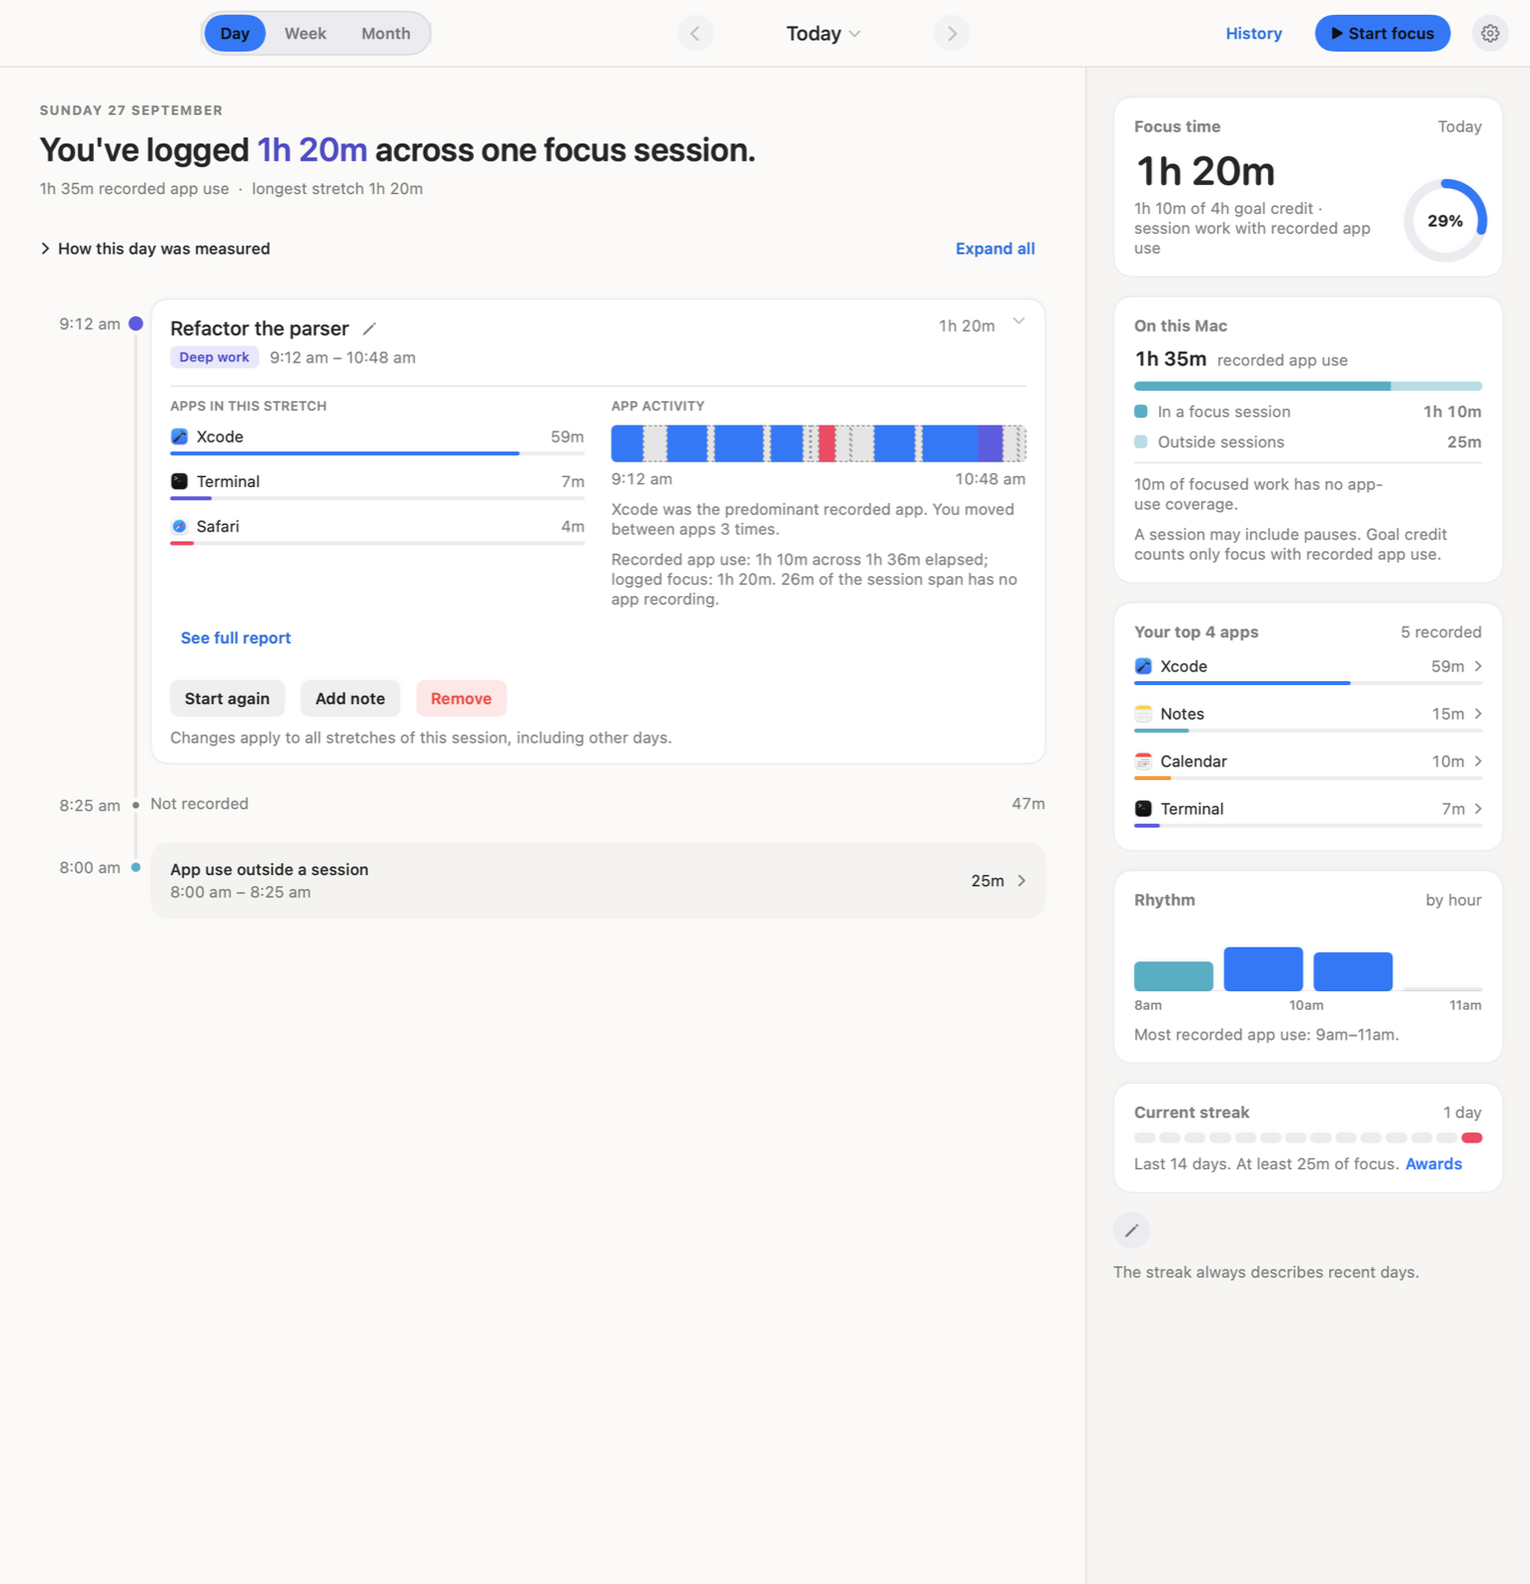
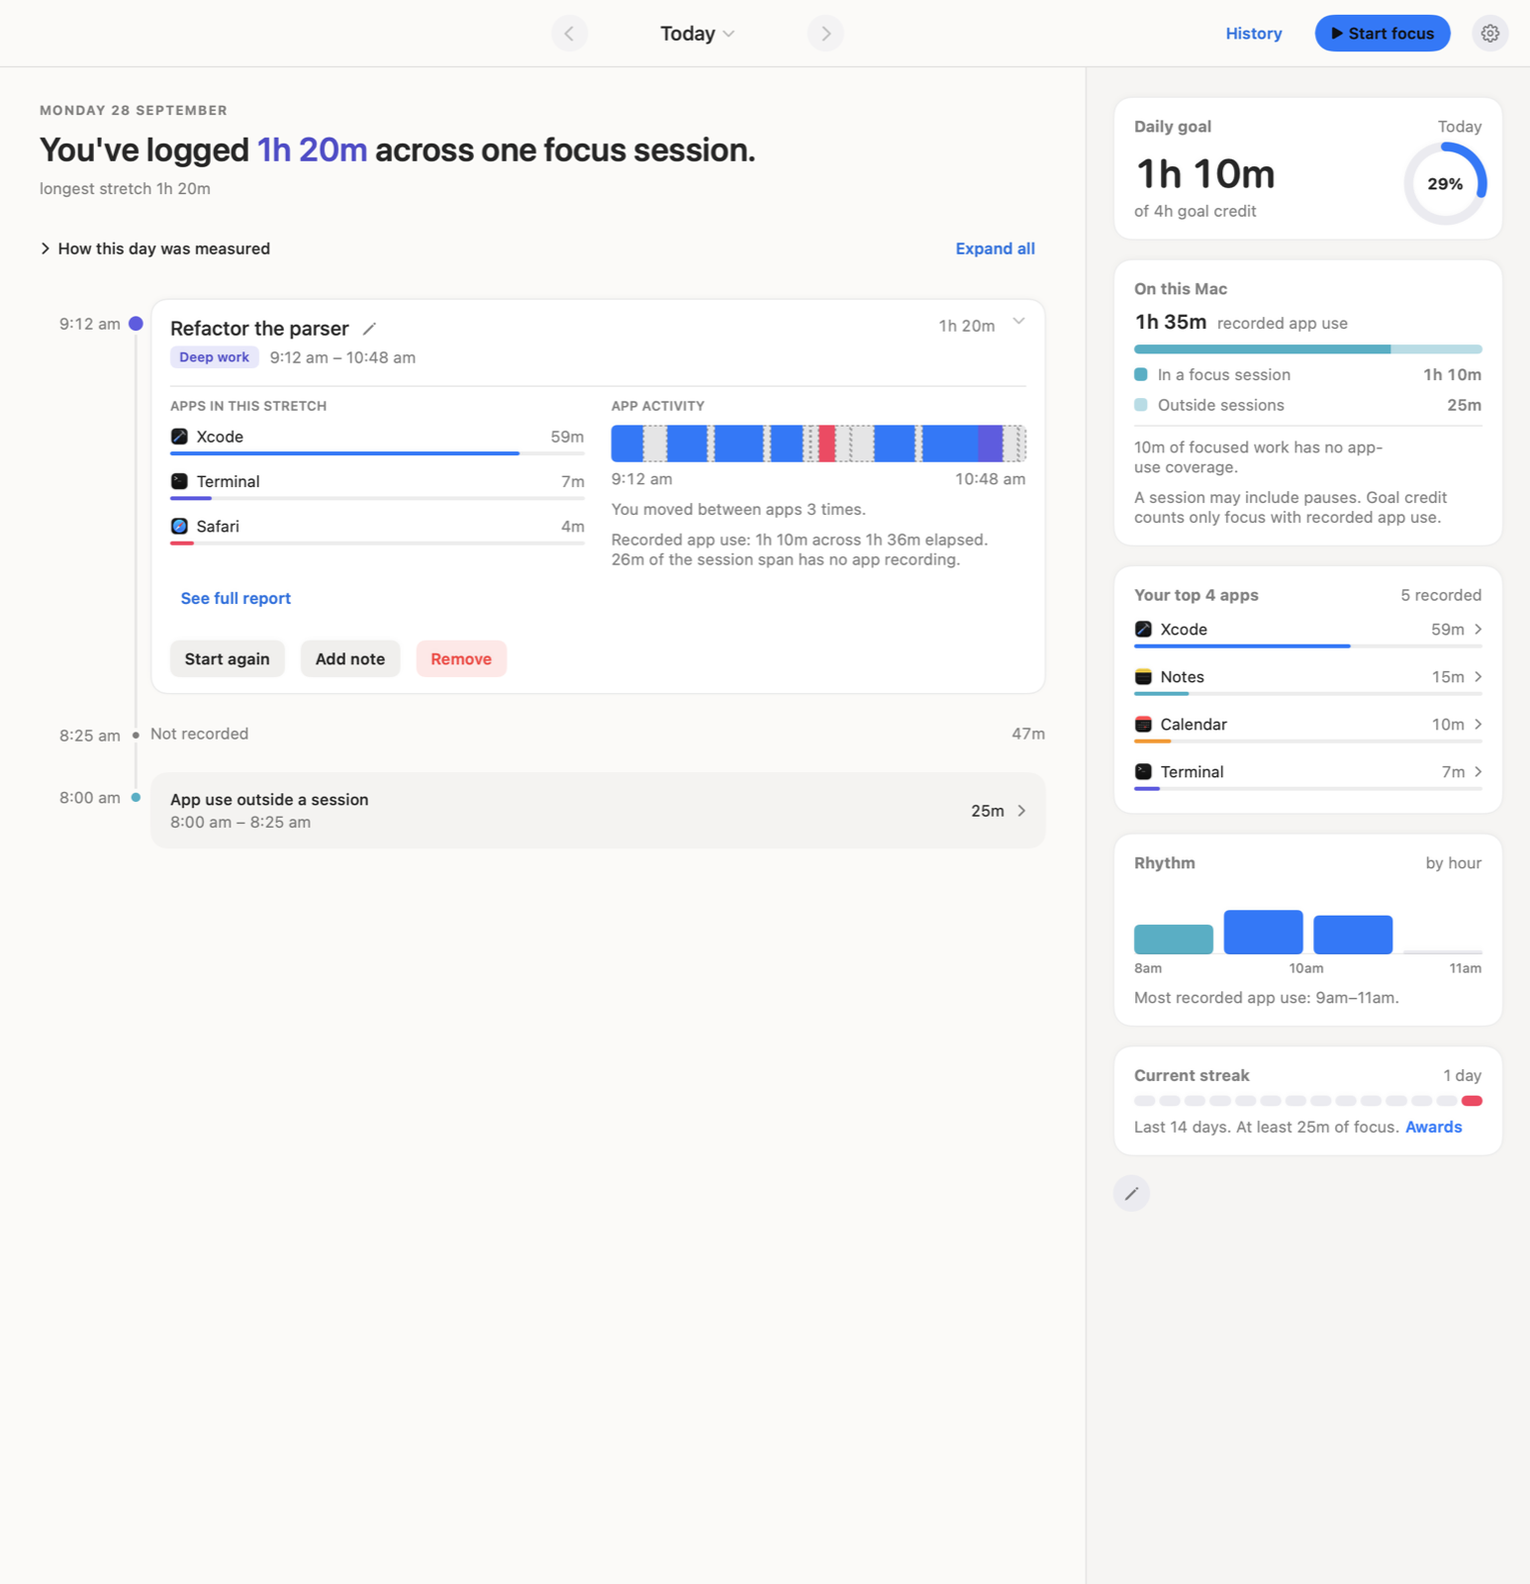
The tour, docs and screenshots describe the day and History
The tour's Looking back chapter now explains History's ranges and picked
spans; its second card points at History's own arrows and dates, which it
had no anchor for. README, usage guide, DESIGN and PRODUCT drop Day, Week
and Month scopes, the Opens on setting and the separate Insights page, and
list ⌘1 story, ⌘2 History and ⌘F Find in History. The Week, Month and
Insights screenshots are replaced by History at 3 and 12 months, and the
Day screenshot is re-rendered without the scope pills; the old images are
kept outside the repository.

diff --git a/Sources/Core/FirstRun.swift b/Sources/Core/FirstRun.swift
@@ -391,23 +391,23 @@ enum FirstRunScript {
         ]),
 
         Chapter(id: .lookingBack, cards: [
-            Card(sentence: "The day here, the longer view in History.",
-                 body: "The story is always one day; its arrows step a day at a time and "
-                     + "the date between them opens a calendar. History is where you "
-                     + "find out what your weeks and months actually look like.",
+            Card(sentence: "The story is a day. History is the longer view.",
+                 body: "Pick how far back to look: 7 or 30 days by day, 3 months by "
+                     + "week, 12 months as a calendar for each month. Pick a bar or a "
+                     + "month to read it, down to a single day's story.",
                  anchor: .scopePills,
                  effect: .showHistory),
             Card(sentence: "History goes back to the day you installed the app.",
-                 body: "Every month as a calendar, every day a square, stronger the "
-                     + "more of your goal it reached. Pick a month to read it. There is "
-                     + "nothing from before the app was here, because nothing was "
-                     + "recorded.",
+                 body: "The arrows step back by the range you chose. The dates between "
+                     + "them open a calendar: click a first day and a last, and History "
+                     + "reads exactly that stretch. There is nothing from before the app "
+                     + "was here, because nothing was recorded.",
                  anchor: .periodNav,
                  effect: .showHistory),
             Card(sentence: "Find any session by name.",
-                 body: "The search finds sessions by what you called them, what you "
-                     + "noted, the app, the category or the date. ⌘F opens it from "
-                     + "anywhere in History.",
+                 body: "The search at the top of History finds sessions by what you "
+                     + "called them, what you noted, the app, the category or the date. "
+                     + "⌘F takes you there from anywhere in the window.",
                  anchor: .search,
                  effect: .showHistory)
         ]),

diff --git a/Sources/Surfaces/Main/StoryChromeBar.swift b/Sources/Surfaces/Main/StoryChromeBar.swift
@@ -139,6 +139,7 @@ struct StoryChromeBar: View {
                          controlLabel: "History range")
             Spacer(minLength: Tokens.Space.s)
             insightNavigation
+                .coachAnchor(.periodNav)
             Spacer(minLength: Tokens.Space.s)
             // No "History" label and no search button: the label named the
             // page being read beside its back button, and the search field

diff --git a/docs/usage.md b/docs/usage.md
@@ -5,17 +5,16 @@ the project is and how it is built, start with the [README](../README.md).
 
 ## Surfaces
 
-The main window has one persistent scope selector. Scopes retain the date you
-are inspecting; opening a historical story never substitutes today's data.
+The main window reads one day at a time; History reads longer stretches.
+Each question has one place, so the same figures are not shown twice. Opening
+a historical day never substitutes today's data.
 
 | Surface | Question it answers | Main content |
 |---|---|---|
-| Day | What happened on this calendar day? | Focus-led summary, chronological stretches, named rest, app use and honest recording gaps |
-| Week | How did the days compare? | Focus summary, exact tracked bars, focused work-type composition and selected-day preview |
-| Month | How was focus distributed? | Date-and-duration calendar, relative focus intensity, weekly totals and selected-day preview |
+| Story | What happened on this day? | Focus-led summary, chronological stretches, named rest, app use and honest recording gaps; goal, app use, rhythm and streak in the rail |
+| Calendar | Which day, or which span? | A date picker under the date label: a dot marks days with anything recorded; in History, click a first and last day to read that span |
 | Session controls | What should I do now? | Intent, work type, Start, Pause, Resume, Away, Stop and pending-away decisions |
-| History | Where is an older record? | Days grouped by month with a strip of each day's sessions; search, app and category filters; the picked day previews in the rail |
-| Insights | What patterns are supported? | Focus by day, week or month; a when-you-focus grid; category shares and goal rates; gated pace, quality and continuity statements |
+| History | How have my days, weeks and months gone? Where is that session? | Search first, with app and category filters; ranges of 7 or 30 days (by day), 3 months (by week) or 12 months (a calendar for each month); a when-you-focus grid, category shares and goal rates; gated pace, quality and continuity statements |
 | Awards | What milestones have I earned? | Achievements derived from recorded evidence, with their criteria |
 | Settings | How should the app behave? | Real persisted controls, privacy evidence and diagnostics |
 
@@ -23,23 +22,23 @@ are inspecting; opening a historical story never substitutes today's data.
 
 | Shortcut | Action |
 |---|---|
-| `Command-1`, `Command-2`, `Command-3` | Day, Week, Month |
-| `Command-4`, `Command-6` | History, Awards |
+| `Command-1`, `Command-2` | The day's story, History |
+| `Command-6` | Awards |
 | `Command-7` | Session controls |
 | `Command-,` | Settings |
-| `Command-F` | Find a session (in History) |
+| `Command-F` | Find in History, from anywhere in the window |
 | Escape | Dismiss a native sheet/app detail or cancel an inline rename |
 
 ## Reading the story
 
 Current work is at the top of the timeline; earlier work and rest continue
 downwards. Click an entry's full header to expand it. Inspect an app from the
-rail to see its scoped recorded visits. Select a calendar day or Week bar for a
-preview, then use **Open as a story** for that date's full chronology. In
-History a row previews its day in the rail; double-click it, or use **Open as a
-story**, to read the full day. In Insights a picked bar or month unfolds in
-place. Choose **Arrange cards** to reorder the rail; dragging is active only
-while arranging, and each card also offers keyboard Move up / Move down.
+rail to see that day's recorded visits. The arrows step a day; the date label
+opens the calendar. In History a picked bar or month unfolds in place, down to
+a single day's story; a found session previews its day in the rail, and **Open
+as a story** reads it on the front page. Choose **Arrange cards** to reorder the
+rail; dragging is active only while arranging, and each card also offers
+keyboard Move up / Move down.
 
 An expanded entry offers a pencil for renaming and changing category,
 **Continue this**, **Add note** (typed or dictated in the app), **Remove** and
@@ -103,12 +102,11 @@ save a different correction made elsewhere.
 ## How the figures are counted
 
 Historical sessions and app use are clipped by local calendar day, so a
-cross-midnight session contributes only its proper portion to each day. Week
-bars and their average use tracked time; focus averages use focused days. The
-Month heatmap uses focused duration relative to that month's largest value, not
-the current goal. Its numbers remain the source of truth. The daily goal ring
-uses focused-active credit; the current streak is explicitly recent even while
-browsing older periods. Running focus is included in Day, Week, Month and
+cross-midnight session contributes only its proper portion to each day.
+History's solid bars are logged focus and the pale bar behind each is recorded
+app use; focus averages use focused days. The daily goal ring uses
+focused-active credit; the current streak is explicitly recent even while
+browsing older days. Running focus is included in the day's story and in
 History without writing synthetic records into the archive.
 
 The Story preserves separate stretches of resumed work so a later stretch does
@@ -130,7 +128,7 @@ Settings groups the backed controls into five compact pages:
 
 | Page | Controls and information |
 |---|---|
-| General | Launch scope, login item, menu bar time, appearance, density, Story time gutter, entry expansion and the tour |
+| General | Login item, menu bar time, appearance, density, Story time gutter, entry expansion and the tour |
 | Sessions | Daily goal, activity rules and their application picker, legacy automatic sessions, automatic gap and milestones |
 | Away & Breaks | Absence thresholds, full-screen prompt threshold and break reminders |
 | Recording | App recording and the number of recent app visits initially shown |
@@ -139,9 +137,9 @@ Settings groups the backed controls into five compact pages:
 Each page or changed search result opens at its first control; search retains
 the result's group context. Long paths and recovery text wrap and are
 selectable. System appearance clears the override and follows macOS; Reduce
-Motion always follows the system. The launch-scope preference applies on the
-next app launch. Recent-visit limits never reduce totals, and the app detail can
-reveal its full scoped list. Unsupported sync, export, retention and
+Motion always follows the system. The window always opens on the day's story.
+Recent-visit limits never reduce totals, and the app detail can reveal its
+full list for the day. Unsupported sync, export, retention and
 destructive data controls are not presented as working features.
 
 ## Review modes
@@ -153,7 +151,7 @@ The binary also supports review modes:
 ./FocusContinuity.app/Contents/MacOS/FocusContinuity --snapshot ./snapshots
 FC_SNAPSHOT_ONLY=welcomeStep ./FocusContinuity.app/Contents/MacOS/FocusContinuity --snapshot ./snapshots
 ./FocusContinuity.app/Contents/MacOS/FocusContinuity --onboarding
-./FocusContinuity.app/Contents/MacOS/FocusContinuity --fixture-window storyMonth
+./FocusContinuity.app/Contents/MacOS/FocusContinuity --fixture-window reviewHistorySelection
 ./FocusContinuity.app/Contents/MacOS/FocusContinuity --fixture-window storyDecision
 ./scripts/build-fixture-app.sh storyShape
 ```
@@ -162,8 +160,8 @@ These review modes use `SnapshotScenario`, temporary archives and isolated
 preferences. `--fixture-window` opens the real production shell with an
 injected fixture clock and no live-history coordinator or system monitors. Use
 it for native sheets, keyboard focus, appearance, corrections and navigation;
-fixture changes are disposable. `--snapshot` renders light/dark Story scopes,
-selected days, History, session controls, Settings, Insights, Awards, the
+fixture changes are disposable. `--snapshot` renders light/dark day stories,
+History ranges and a picked day, session controls, Settings, Awards, the
 tour's opener and first step, and compact prompts through offscreen AppKit
 hosting, including native controls and real scroll views.
 `FC_SNAPSHOT_ONLY=<scenario>` renders one scenario; the whole matrix takes

diff --git a/DESIGN.md b/DESIGN.md
@@ -12,8 +12,8 @@ record the tested behaviour and remaining manual-verification limits.
 
 ## Composition
 
-A persistent native chrome row holds Day / Week / Month, period navigation and
-session controls. A readable Story column sits beside a 336-point supporting rail.
+A persistent native chrome row holds day navigation (History: its range buttons
+and span navigation) and session controls. A readable Story column sits beside a 336-point supporting rail.
 The canvas is warm off-white (`#FBFAF8`) with white entry cards; the rail is a
 subtle neutral layer over the warm base. Dark appearance retains the same
 hierarchy, without putting white labels on insufficiently dark fills.
@@ -33,12 +33,13 @@ is used for light-appearance emphasis; dark-appearance text uses `#B6B3FF`
 to stay readable on dark cards instead of copying a low-contrast saturated fill
 into small labels. Action blue is `#0071E3` / `#75B5FF`. Work types retain stable
 identities; app colours are consistent within
-the selected scope. Colour never implies goal credit where only focused duration
+the day or range shown. Colour never implies goal credit where only focused duration
 is known. Native controls preserve visible keyboard focus.
 
 ## Components
 
-- Scope control: rounded rectangle, radius 9, neutral selected thumb radius 7.
+- Range control (History): rounded rectangle, radius 9, neutral selected thumb
+  radius 7. No thumb shows while a span picked on the calendar is read.
 - Entry cards: radius 13, 13-point vertical / 15-point horizontal padding,
   subtle hairline and shadow. The entire header toggles detail.
 - Rail tiles: radius 14, 15-point vertical / 16-point horizontal padding.
@@ -47,24 +48,22 @@ is known. Native controls preserve visible keyboard focus.
   within the supported 980-point minimum shell. No fabricated activity waveform
   or typing claims. Meetings use a compact evidence paragraph and app-duration
   chips; current work uses a short coverage sentence beside a compact chart.
-- Month: responsive square cells, 8-point gaps, 62-point weekly totals column,
-  date and duration together. Intensity is relative focused duration, not goal
-  attainment. Foreground is selected from resolved-fill contrast.
+- Calendar: a picker, not a report. Dates, the chosen day or span, and a
+  4-point dot on days with anything recorded; a day's figures are in its hover
+  text and spoken label. Months and their totals are History's.
 - Preferences: compact bounded native sheet with five groups, backed controls
   and contextual search. Native modal sheets block parent interaction and Escape
   dismisses. History remains searchable and opens historical stories explicitly.
 
 ## Chrome bar
 
-One row, the same columns in every workspace: a slot for the way back, the
-workspace's control, the period, the links to the other workspaces, the
-session control, Settings. The slot is the width of one round button and is
-empty on Story; Insights and History put a bare back arrow in it, so the
-scope pills begin at the same point in every view. Both links are always
-present in the same order; the workspace you are in is set in the text
-colour and is not a link. The bar holds controls and the way back, never a
-title: Insights and History name themselves at the top of their page with a
-page title and one line of metadata. The session control never wraps.
+One row: a slot for the way back, the workspace's controls, the session
+control, Settings. The slot is the width of one round button and is empty on
+the Story; History puts a bare back arrow in it. The Story's controls are its
+day arrows and date, with a History link; History's are its four range buttons
+and its span arrows and dates. The bar holds controls and the way back, never a
+title, and History's search heads its page rather than sitting in the bar. The
+session control never wraps.
 
 ## Vocabulary
 
@@ -220,7 +219,7 @@ The Apps tile always shows at most four apps, sorted by recorded duration, with
 app-list scroller. Individual apps still open their scoped recorded visits.
 The fixed cap keeps the supporting rail subordinate to the Story.
 
-**Open FocusContinuity** reveals the existing Story scope and date and dismisses
+**Open FocusContinuity** reveals the existing Story date and dismisses
 an old secondary sheet. It does not open session controls merely because a timer
 is running. **Session controls** and its explicit keyboard command still open
 the operational sheet. Inspecting history and managing a timer are separate

diff --git a/README.md b/README.md
@@ -25,13 +25,13 @@ lunch into invented productivity. FocusContinuity is built around one rule:
 
 ## Screenshots
 
-| Week, dark appearance | Month |
+| History, 3 months, dark appearance | History, 12 months, a day picked |
 |---|---|
-| ![Week scope in dark mode: focus by day with recorded app use behind each bar](docs/screenshots/week-dark.png) | ![Month scope: a calendar of focused days with weekly totals](docs/screenshots/month.png) |
+| ![History in dark mode over 3 months: search first, focus by week and a when-you-focus grid](docs/screenshots/history-dark.png) | ![History over 12 months: a calendar for each month, with a picked day previewed in the rail](docs/screenshots/history-year.png) |
 
-| Insights | Menu bar | Away decision |
-|---|---|---|
-| ![Insights: focus by week and a when-you-focus grid](docs/screenshots/insights.png) | ![Menu bar popover with a running session and quick switches](docs/screenshots/menu-bar-popover.png) | ![Away prompt asking how 22 minutes away should count](docs/screenshots/away-prompt.png) |
+| Menu bar | Away decision |
+|---|---|
+| ![Menu bar popover with a running session and quick switches](docs/screenshots/menu-bar-popover.png) | ![Away prompt asking how 22 minutes away should count](docs/screenshots/away-prompt.png) |
 
 ## The hard parts
 
@@ -114,13 +114,15 @@ machinery that nothing used any more, with no change in behaviour.
 
 ## Features
 
-- Day, Week and Month stories, newest first, with focus, app use, rhythm and
-  streak tiles beside them
+- The day told as a story, with its goal, app use, rhythm and streak beside
+  it; a calendar jumps to any recorded day
 - Focus sessions with pause, away, breaks and threads you can continue later
 - Optional activity rules that start sessions from the apps you use, always
   saying why and offering Undo
-- Searchable History reaching back to the first recorded day
-- Insights that only state what the record supports: focus trend, a
+- History over the last 7 or 30 days, 3 or 12 months, or any span you pick,
+  grouped by day, week or month to suit, back to the first recorded day
+- Search first in History: sessions by name, note, app, category or date (⌘F)
+- History states only what the record supports: focus trend, a
   when-you-focus grid, category shares and goal rates
 - Custom categories with icons, colours, daily goals and break reminders
 - Session notes with in-app dictation, full session reports and named breaks
@@ -157,7 +159,7 @@ AppUsageTracker          SessionStore (+ read models)   Story columns / rail / c
 AppUsageArchive          SettingsModel                  History / Insights / Awards
 DailyGoal                MainWindowModel                Focus / Settings / Popover
 PeriodStats              Persistence wiring             Tokens / StoryStyle / controls
-PresenceGate             Story scope projections        Away / Reward
+PresenceGate             Day and History projections    Away / Reward
 StoryChronology
 DateFormats
 ```

diff --git a/PRODUCT.md b/PRODUCT.md
@@ -15,7 +15,8 @@ This is a native macOS tool for repeated daily use, not a web analytics dashboar
 Keep time accounting honest across pauses, absence, screen locks and sleep.
 Make the recorded day understandable without requiring users to reconstruct it
 from disconnected charts. The menu bar provides quick operations; the main
-window provides a chronological Story with Day, Week and Month scopes.
+window tells one day as a chronological Story, and History reads longer
+stretches. Each question has one place, so no figure is shown in two.
 
 ## Brand personality
 
